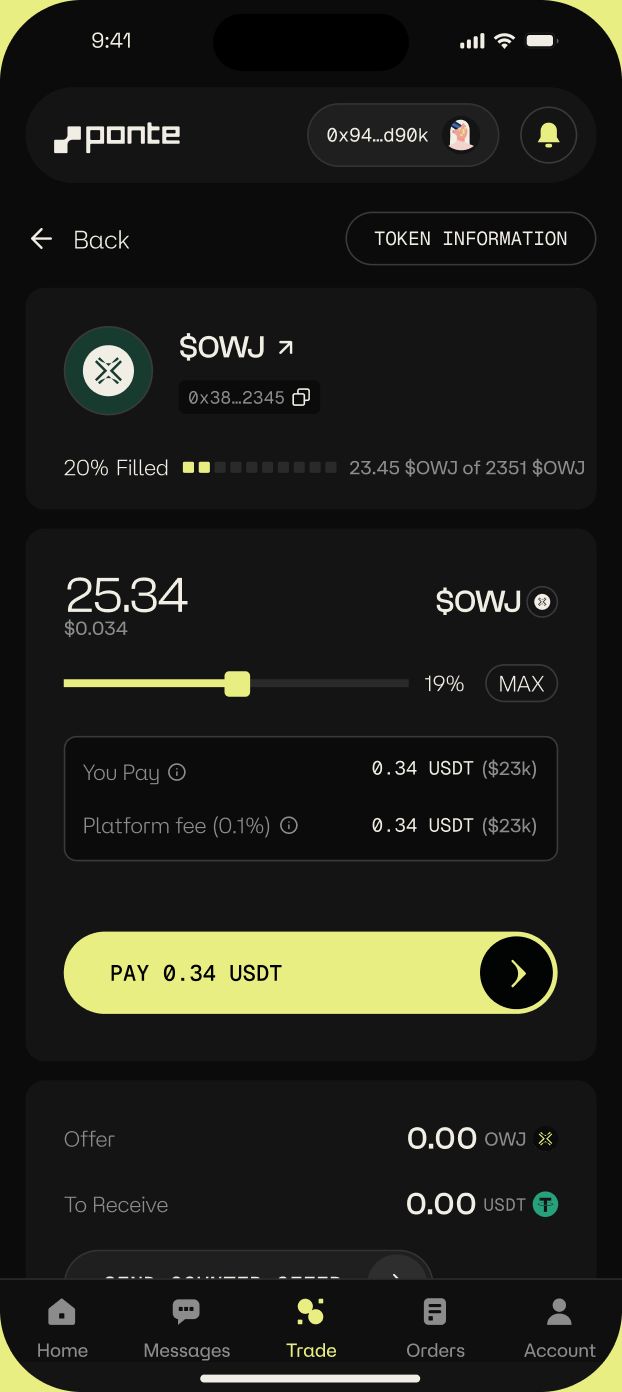
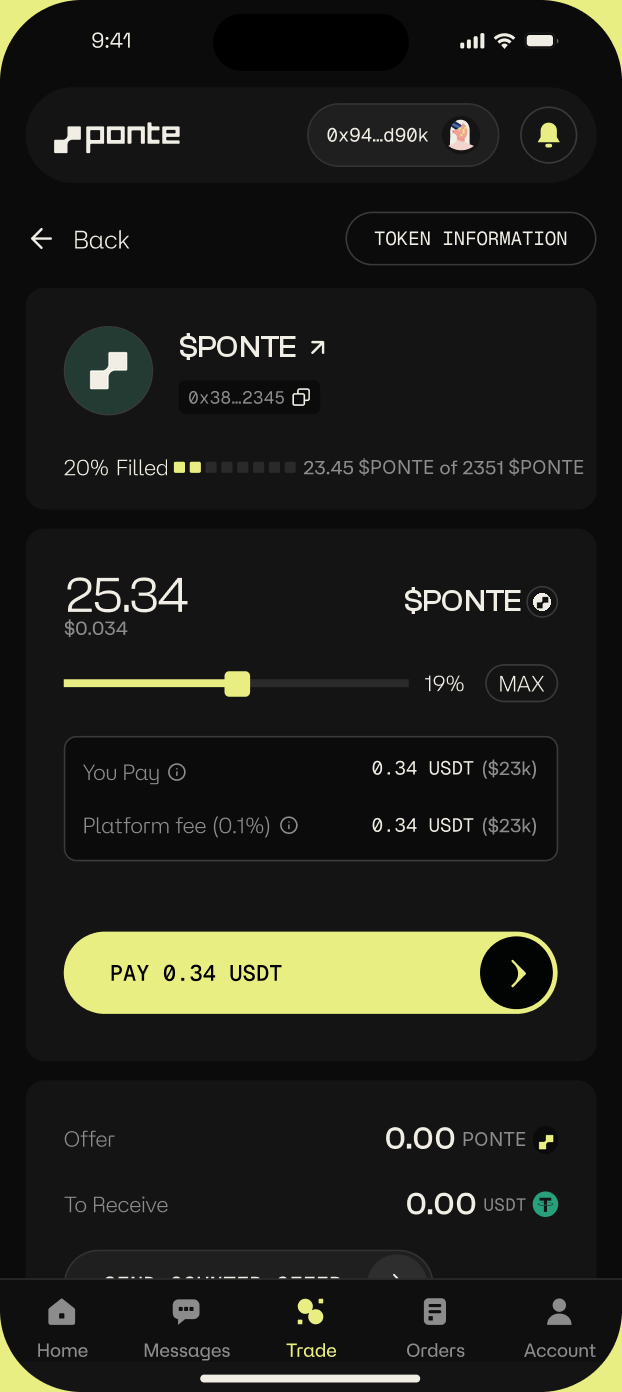
Replace $OWJ with illustrative $PONTE token in product mockups
Pixel-edits the OTC desktop (hero) and OTC mobile screens: token name,
fill/receive labels, settlement step and order-history token badges now
read $PONTE with the Ponte mark as the token icon. Text is re-set in
Clash Grotesk at the original sizes; auto-layout neighbours (arrow,
amounts) shift as Figma would. FAQ tile label reads "OTC desk · Ponte".
$PONTE is illustrative only; no launch, availability or price is implied.

Claude-Session: https://claude.ai/code/session_01Q99iCnAJG278PST159CR7H

diff --git a/src/components/sections/Faq.tsx b/src/components/sections/Faq.tsx
@@ -177,7 +177,7 @@ function OtcTile() {
       aria-hidden="true"
       className="relative aspect-[493/494] w-full max-w-[493px] overflow-hidden rounded-panel bg-forest lg:justify-self-end"
     >
-      <span className="absolute left-[25px] top-[25px] text-mono-12 text-mint/80">OTC desk · VetMe</span>
+      <span className="absolute left-[25px] top-[25px] text-mono-12 text-mint/80">OTC desk · Ponte</span>
       <div className="absolute left-[50px] top-[104px] w-[80%] overflow-hidden rounded-t-[36px]">
         <Image
           src="/images/otc-phone-screen.png"

diff --git a/README.md b/README.md
@@ -88,4 +88,4 @@ falls back to system fonts until they exist.
 - Real URLs: web app, App Store, Google Play, WhatsApp assistant, support, legal pages, X, Telegram.
 - Video backgrounds (hero, trust, CTA gradient) are stills / CSS in this build; drop MP4/WebM in
   `public/video` and swap the `Image` backdrops for `<video>` when available.
-- Product mockups show the `$OWJ` token UI from the Figma assets.
+- Product mockups use `$PONTE` as a purely illustrative token in the trade demonstrations (edited from the Figma `$OWJ` assets); nothing on the site states or implies that a token has launched, is tradable or has a market price.
